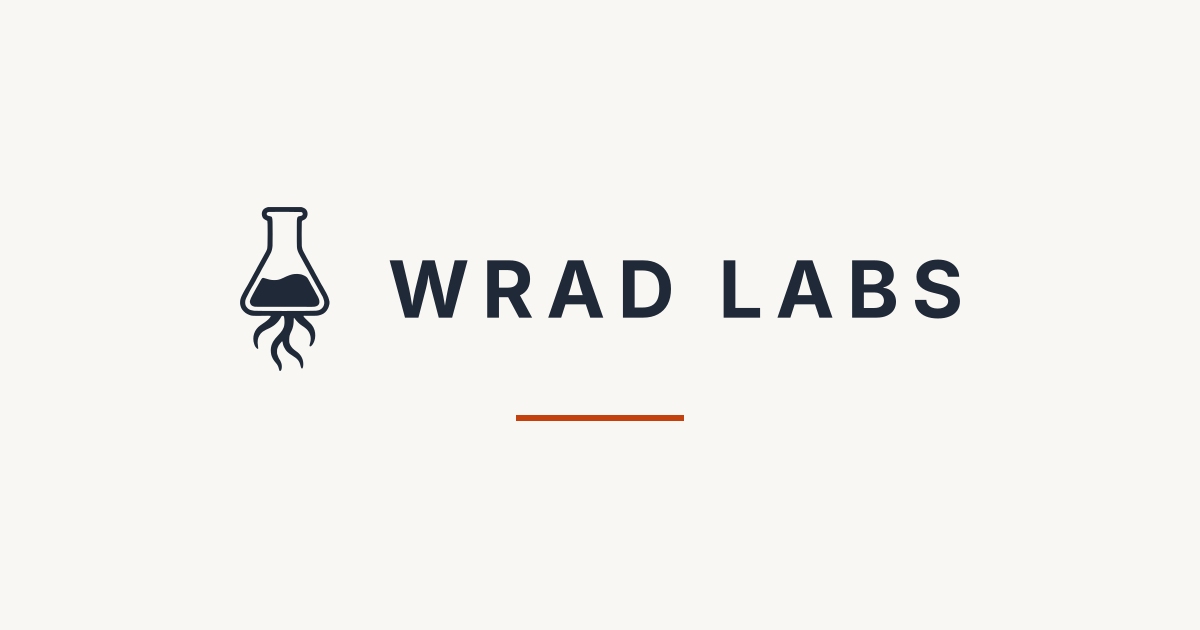
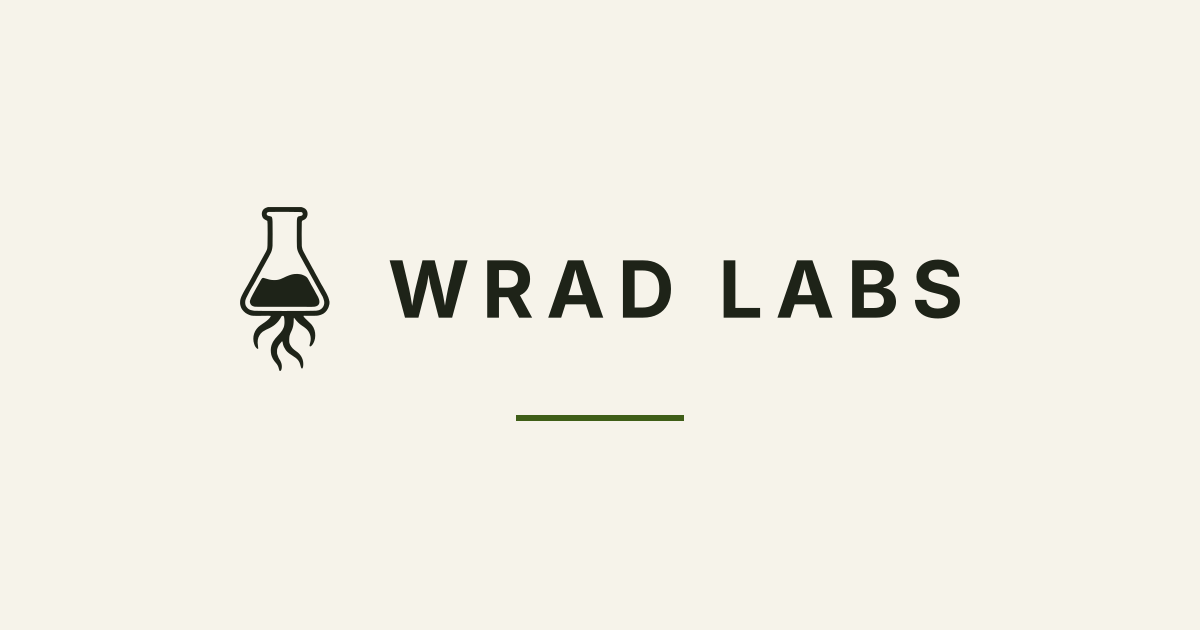
feat: bring the Canopy brand assets down from company (closes OB-14)
The palette lived in four places, only one of which was this stylesheet.
company#6 (C13) re-synced 16 brand SVGs, both build.mjs constants, that
repo's README and all 14 raster exports; these are the derived copies,
landing here through review as R-020 requires.

The visible defect this fixes: mark.svg was rendering #1F2937 in the nav
beside #1E2318 headings, which broke brand/README.md's own promise that the
brand sits in the same ink as the headings next to it. og.png was worse —
it published a terracotta rule for an accent that no longer existed
anywhere.

favicon.svg also becomes the grounded tile (company C12): an ink glyph on a
paper tile, 512 square with a 96 corner radius. It retires a theme-adaptive
glyph that flipped on prefers-color-scheme — which is not the colour of the
tab strip, so a custom browser theme made it vanish. Paper tile chosen over
ink because it matches what the PNG exports have always done.

Copied: favicon.svg, mark.svg, logo-stacked.svg, favicon.ico, favicon-48,
apple-touch-icon, og.png, icon-512. logo-stacked.svg is not in the upstream
handoff table even though the footer uses it — noted for that repo.

Verified by sampling pixels, not by eye: favicon-48, apple-touch-icon and
icon-512 all read #F6F3EA at the corner and #1E2318 at the centre; og.png
decomposes to 1,008 leaf-green pixels and ZERO terracotta. In the browser,
mark.svg's ink now equals the computed heading colour exactly — the
[…]

Changed region(s): [[0.3083, 0.3921, 0.8017, 0.5127], [0.185, 0.3317, 0.2775, 0.573], [0.4317, 0.6333, 0.555, 0.6937]]

diff --git a/status.md b/status.md
@@ -95,19 +95,29 @@ Last updated: **2026-07-31**
   start above y=228, the vessel rim** — lower and they appear to grow out of the glass.
   **Their widths are CLASSES, not `stroke-width` attributes:** a presentation attribute
   loses to any CSS rule, and writing them inline silently flattened all three to 7.
-- **Icons and share card, one asset per slot.** `favicon.svg` (theme-adaptive: ink,
-  flipping to paper in dark browser chrome — **but see OB-14: that flip misfires under a
-  custom browser theme**), `favicon-48.png`, a real multi-size
-  `/favicon.ico`, `apple-touch-icon.png`, `og.png` (1200×630, so `twitter:card` is now
-  `summary_large_image`), and `icon-512.png` for the JSON-LD `logo`. The old 317 kB
-  `logo.png` did all of those jobs at once and is deleted.
+- **Every brand asset is Canopy, and the derived copies match upstream** (2026-07-31,
+  company **C13**). `mark.svg` now renders `#1E2318` — **the same ink as the headings beside
+  it**, which is what `brand/README.md` always claimed and was briefly false while the
+  palette moved. `og.png` carries a **leaf-green rule and zero terracotta pixels**
+  (verified by decomposing the image, not by eye). Closed OB-14.
+- **`favicon.svg` is the mark on its own ground** — ink glyph on a paper tile, 512² with a
+  96 corner radius (company **C12**). It replaced a theme-adaptive glyph that flipped on
+  `prefers-color-scheme`, **which is not the colour of the tab strip**: under a custom
+  browser theme the two disagree and the icon vanished (owner screenshot). A tile does not
+  need to contrast with the strip — the glyph contrasts with the tile, and that never
+  changes. The paper tile was chosen over the ink one because it matches what the PNG
+  exports have always done.
+- **The rest, one asset per slot.** `favicon-48.png`, a real multi-size `/favicon.ico`,
+  `apple-touch-icon.png`, `og.png` (1200×630, so `twitter:card` is `summary_large_image`),
+  and `icon-512.png` for the JSON-LD `logo`. The old 317 kB `logo.png` did all of those
+  jobs at once and is deleted.
 - **Two drawings of the mark, and the medium picks (upstream C11 / `R-003`).** Every
   **square raster icon** here is the **small mark** — the master's own vial filled solid
   with the tendrils clipped off, derived from the master rather than redrawn; `mark.svg` in the
   nav, footer, legal and 404 is the **master**. They are not the same drawing and that is
   deliberate — a 16px PNG gets 16 pixels, where the vector at 30px gets 60 on a 2× display.
   **`og.png` now carries the company name:** the horizontal lockup, mark plus "WRAD LABS"
-  outlined from Inter 700, above a terracotta rule.
+  outlined from Inter 700, above a leaf-green rule.
 - **Third-party surface, five processors:** Cloudflare (edge/TLS), **Cloudflare Web
   Analytics**, Formspree, GitHub Pages/Fastly, Google Workspace (email, off-repo). All five
   are named in `privacy.html`, dated **July 31, 2026**. **Google Fonts is gone**
@@ -225,8 +235,7 @@ development live in the private `company` repo (D8/R-012).
 | OB-5 | **Confirm tracked-file exposure is acceptable.** `CLAUDE.md`, `README.md`, `decisions.md` and `status.md` all return 200 at the live domain. **The available mitigation has now shipped** (AQ-10, 2026-07-31): `robots.txt` disallows `/*.md$`, so compliant crawlers stop fetching them. It does **not** make them private and never could — full suppression needs a Jekyll build, which D1 rules out, and a `.md` file can carry neither a robots meta tag nor an `X-Robots-Tag` on Pages. So this is now purely the owner's question: **accept that these files are reachable to anyone with the URL, or reopen D1/D2.** Nothing further an agent can do. Carried from WORKPLAN P0. | 🔴 3 |
 | OB-6 | **Content: replace aspirational copy with proof** as products, team, or case studies exist. Carried from WORKPLAN P4. | 🟡 2 |
 | OB-8 | **Annual inquiry sweep — delete contact-mailbox mail older than 24 months (R-018).** **One mailbox**, reached by both `hello@` and `support@` as aliases (owner-confirmed 2026-07-31), so the sweep scope is settled. First mandatory deletion due **2028-07** (form live since 2026-07-04); run it annually from 2027-07 so nothing ages past the published figure. Mailbox-side action only — no agent can do this. If the sweep lapses, `privacy.html` must change, not the practice. | 🔴 3 |
-| OB-14 | **Re-sync the brand assets to Canopy, and ship the grounded favicon — both upstream in `company/brand/`.** Two things, one root cause. **(a) Palette drift:** every derived SVG here bakes the *old* ink `#1F2937` and paper `#F9F7F3` (`mark.svg`, `logo-stacked.svg`, `favicon.svg`), and `og.png` bakes terracotta `#C2410C`. After D28 the nav mark renders `#1F2937` beside `#1E2318` headings — breaking `brand/README.md`’s own stated promise that the mark sits in the same ink as the headings beside it. It is 14 SVGs plus `build.mjs` plus the README, then a rerun of the export script. **Deliberately not started until the palette settled** — it moved twice on 2026-07-31 (D26 → D28), and re-cutting every raster against a value that then changes is the waste this entry exists to avoid. **(b) Favicon ground:** the adaptive favicon follows `prefers-color-scheme`, which does **not** track the tab-strip colour — under a custom browser theme it paints the paper glyph onto a light strip and vanishes (owner screenshot, 2026-07-31). **Already built upstream** as `mark-small-tile.svg` (paper tile, ink glyph) and `mark-small-tile-dark.svg`, merged in [company#5](https://github.com/Wrad-Labs/company/pull/5) — the owner still picks which ships. **Both must originate in `company/brand/` (R-020) — never edit the artwork here** — then `tools/build.mjs` regenerates `exports/`, and the copies land here through review. **Do this before OB-10:** `og.png` still carries the terracotta rule, so re-scraping the social caches now would publish a stale card and need doing twice. | 🔴 3 |
-| OB-10 | **Force the social platforms to re-scrape the share card.** The new `og.png` is live and correct, but each platform caches the *old* image against the URL and will keep serving it — nothing in this repo can clear those caches, and they need a signed-in account. **LinkedIn:** open `https://www.linkedin.com/post-inspector/`, paste `https://www.wradlabs.com/`, click **Inspect** — it refetches on every run. **Facebook/Meta:** `https://developers.facebook.com/tools/debug/`, paste the URL, click **Scrape Again**. **X/Twitter:** no public validator remains; it refreshes on its own within about a week. **Verify:** each tool previews the card it now holds — you want the flask on off-white with a terracotta rule, not the old tree glyph. **Reverse:** nothing to undo; re-scraping only re-reads what the site already serves. | 🔴 3 |
+| OB-10 | **Force the social platforms to re-scrape the share card.** **Now unblocked and worth doing** — `og.png` was re-cut to Canopy on 2026-07-31 (leaf-green rule, zero terracotta), so a re-scrape finally publishes the right card. Each platform caches the *old* image against the URL and will keep serving it — nothing in this repo can clear those caches, and they need a signed-in account. **LinkedIn:** open `https://www.linkedin.com/post-inspector/`, paste `https://www.wradlabs.com/`, click **Inspect** — it refetches on every run. **Facebook/Meta:** `https://developers.facebook.com/tools/debug/`, paste the URL, click **Scrape Again**. **X/Twitter:** no public validator remains; it refreshes on its own within about a week. **Verify:** each tool previews the card it now holds — you want the flask on off-white with a terracotta rule, not the old tree glyph. **Reverse:** nothing to undo; re-scraping only re-reads what the site already serves. | 🔴 3 |
 
 ### Agent queue — ready to pick up
 
@@ -243,6 +252,23 @@ Tier key: 🟢 1 autonomous · 🟡 2 propose first · 🔴 3 human-only — see
 Dated one-liners, newest first. **Capped at 5 (R-017)** — adding one drops the
 oldest in the same edit. This is an orientation trail for a cold session, not a
 record: `git log` is the record, and evicted entries are deleted, not archived.
+
+- **2026-07-31** — **Finalised Canopy across every surface; closed OB-14.** The palette
+  lived in four places, only one of which was the stylesheet: **16 brand SVGs**, the
+  `PAPER`/`ACCENT` constants in `company`'s `build.mjs`, that repo's README, and **14 raster
+  exports** — because rasters cannot read CSS tokens. Re-synced upstream in one pass
+  ([company#6](https://github.com/Wrad-Labs/company/pull/6), **C13**), rebuilt, then the
+  derived copies came down here through review. **The visible defect it fixed:** `mark.svg`
+  had been rendering `#1F2937` beside `#1E2318` headings, breaking `brand/README.md`'s own
+  promise that the brand sits in the same ink as the headings next to it — and `og.png` was
+  publishing a **terracotta** rule for an accent that no longer existed. **Verified by
+  sampling pixels, not by eye:** icons read paper at the corner and ink at the centre, and
+  the share card decomposes to 1,008 leaf-green pixels and **zero terracotta**. The
+  favicon also became the **grounded tile** (C12), retiring an adaptive glyph that keyed off
+  `prefers-color-scheme` — which is not the tab-strip colour, so a custom browser theme made
+  it disappear. **One property worth reusing:** running the export build *before* any edit
+  reproduced the existing rasters byte-for-byte, so the build is deterministic and a diff in
+  `exports/` is always a real source change.
 
 - **2026-07-31** — **Canopy replaces Cool Stone within hours (D28 supersedes D26); the hero
   now carries the right side.** D26 shipped a palette that passed **15 measured contrast
@@ -326,30 +352,13 @@ record: `git log` is the record, and evicted entries are deleted, not archived.
   deliberately is not, since `unicode-range` means most readers never fetch it), and
   shrank AQ-3 to `self` + Formspree.
 
-- **2026-07-31** — **Swept the agent queue: five of seven closed, two escalated.** AQ-1
-  (dead `YOUR_FORM_ID` guard), AQ-2 (`referrer` meta on all three pages), AQ-5 (skip link),
-  AQ-7 and AQ-12 (metadata/a11y/CLS docs). **Two of the five did not survive contact with
-  a browser as written, which is the useful part.** *AQ-5* was written as "add a skip
-  link"; the naive version passed inspection and failed twice under test — `position:
-  absolute` put it above the viewport at any scroll offset (caught rendering at viewport
-  top −141 at scrollY 151, and re-entering a scrolled page is precisely when a keyboard
-  user wants it), and without `tabindex="-1"` on `<main>` the browser moved the scroll but
-  left focus on `BODY`, so the next Tab went back into the nav and the link skipped
-  nothing. Now verified the real way: one Tab, one Enter, 4 nav stops skipped, next stop
-  *"Explore our ventures"*. *AQ-7* asked to preload the hero image to cut layout shift —
-  **there is no hero image**; it is an inline `<svg>`, every `<img>` carries intrinsic
-  dimensions, and measured **CLS is 0**. Closed as obsolete rather than implemented, with
-  its real residue (font swap) folded into AQ-9. **A backlog item can rot into describing a
-  page that no longer exists** — check the premise before building the fix. AQ-3 and AQ-9
-  stay open and are now sequenced: AQ-9 first, because self-hosting removes two origins
-  from the CSP AQ-3 has to write, and writing it first means writing it twice.
-
-*(Older entries evicted by the cap — see `git log`. Five went from here: the 2026-07-30
+*(Older entries evicted by the cap — see `git log`. Six went from here: the 2026-07-30
 rule-centralization entry, whose durable content is Golden rule 6 in `CLAUDE.md` and the
 D-008/D-009 table in `rules/active.md`; the 2026-07-30 OB-9 / email-obfuscation entry, whose
 lesson lives in `SECURITY.md` and whose rule is R-019; the 2026-07-30 brand-mark entry
 (D18/R-020), whose durable content is the mark bullet in **Now** and D18 itself; the
 2026-07-30 nine-change site pass (D19/R-021), whose structural half is the full-viewport
-bullet in **Now**; and the 2026-07-31 seven-change contact/copy pass (D20/D21), whose
-outcomes are the address, contact-section and footer bullets in **Now**. All still
-current.)*
+bullet in **Now**; the 2026-07-31 seven-change contact/copy pass (D20/D21), whose outcomes
+are the address, contact-section and footer bullets in **Now**; and the 2026-07-31
+agent-queue sweep (AQ-1/2/5/7/12), whose outcomes are the skip-link, CLS and referrer
+bullets in **Now**. All still current.)*

diff --git a/docs/ARCHITECTURE.md b/docs/ARCHITECTURE.md
@@ -120,10 +120,10 @@ else uses the master itself. That is why the favicons and `mark.svg` below are n
 | File | Slot | Notes |
 | --- | --- | --- |
 | `mark.svg` | nav, footer, `privacy.html`, `404.html` | The **master** mark. Referenced by `<img>`, not an inline `<symbol>` — one cached file instead of a 10.6 kB path duplicated into three pages. **512×939: size it by height, never width.** The `<img>` carries the intrinsic `width`/`height` so `width: auto` resolves without layout shift. Vector, so 30px in the nav is 60 device pixels on a 2× display and stays crisp. |
-| `favicon.svg` | `<link rel="icon" type="image/svg+xml">` | The **small** mark, theme-adaptive: ink, flipping to paper under `prefers-color-scheme: dark`, so it survives a dark browser chrome. Used **only** here — an asset that changes colour on its own is a liability anywhere else. |
+| `favicon.svg` | `<link rel="icon" type="image/svg+xml">` | The **small mark on its own ground** — an ink glyph on a paper tile, 512² with a 96 corner radius (upstream `mark-small-tile.svg`, company **C12**). It replaced a theme-adaptive glyph that flipped ink↔paper on `prefers-color-scheme`, **which is not the colour of the tab strip**: under a custom browser theme the two disagree and the icon vanishes. A tile does not need to contrast with the strip — the glyph contrasts with the tile, and that never changes. |
 | `favicon-48.png` | PNG favicon fallback | Small mark. For browsers that ignore the SVG icon. |
 | `apple-touch-icon.png` | `<link rel="apple-touch-icon">` | Small mark, 180², opaque; iOS applies its own corner mask. |
-| `og.png` | `og:image`, `twitter:image` | 1200×630, which is why `twitter:card` is `summary_large_image`. Carries the **horizontal lockup** — mark plus "WRAD LABS" — above a terracotta rule. The wordmark is outlined, so the card needs no font. |
+| `og.png` | `og:image`, `twitter:image` | 1200×630, which is why `twitter:card` is `summary_large_image`. Carries the **horizontal lockup** — mark plus "WRAD LABS" — above a leaf-green rule. The wordmark is outlined, so the card needs no font. |
 | `icon-512.png` | JSON-LD `Organization.logo` | Small mark, square and opaque, which is what consumers of that field expect. |
 | `logo-stacked.svg` | footer lockup | Mark above wordmark as ONE asset, from `company/brand/`. Sized by height; `alt` carries the name. |
 | `optants-logo.svg` | the Optants venture tile | **A different upstream:** Optants' own brand, from `Wrad-Labs/optants/brand/`. Same derived-copy rule (R-020) — never edit it here. |
